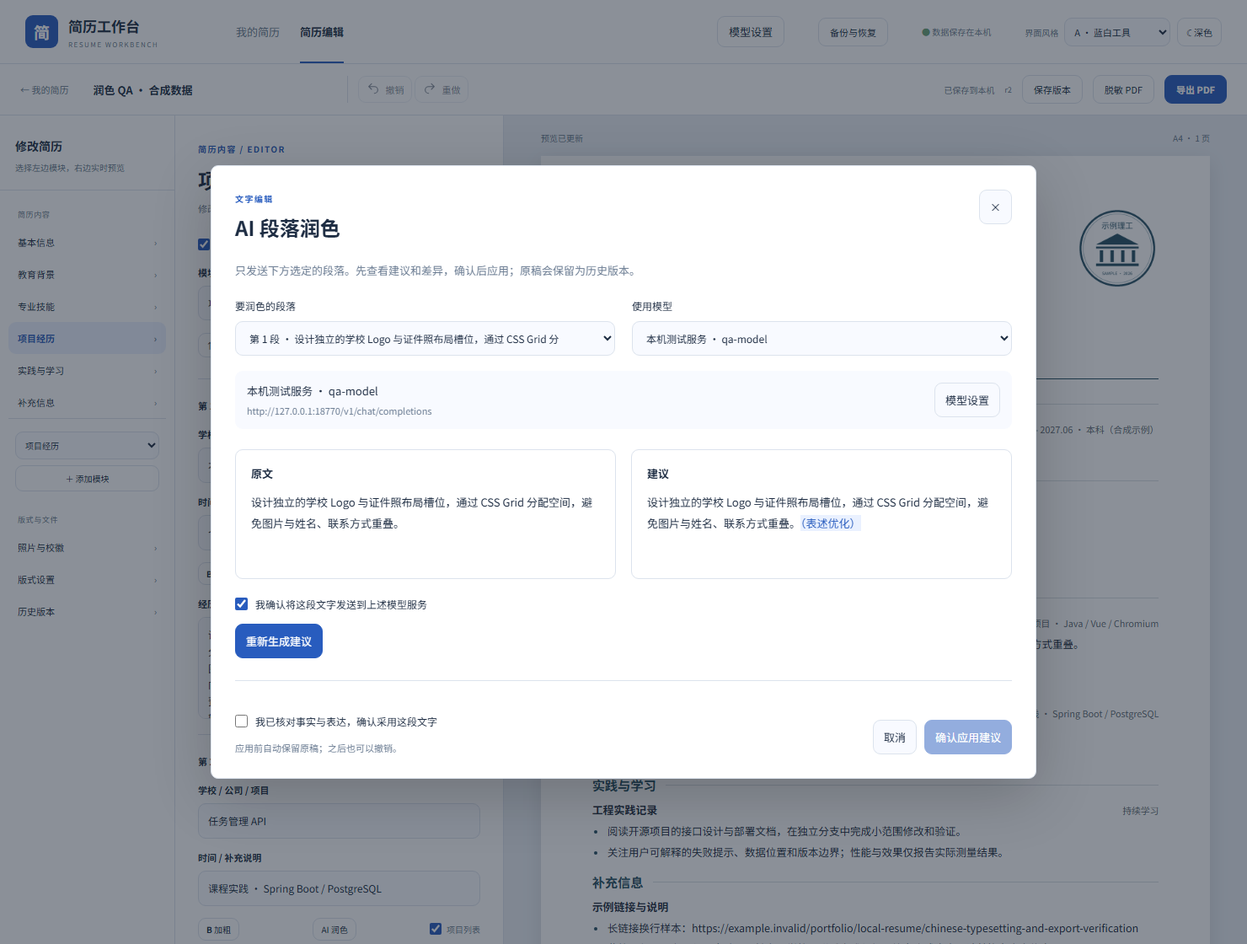
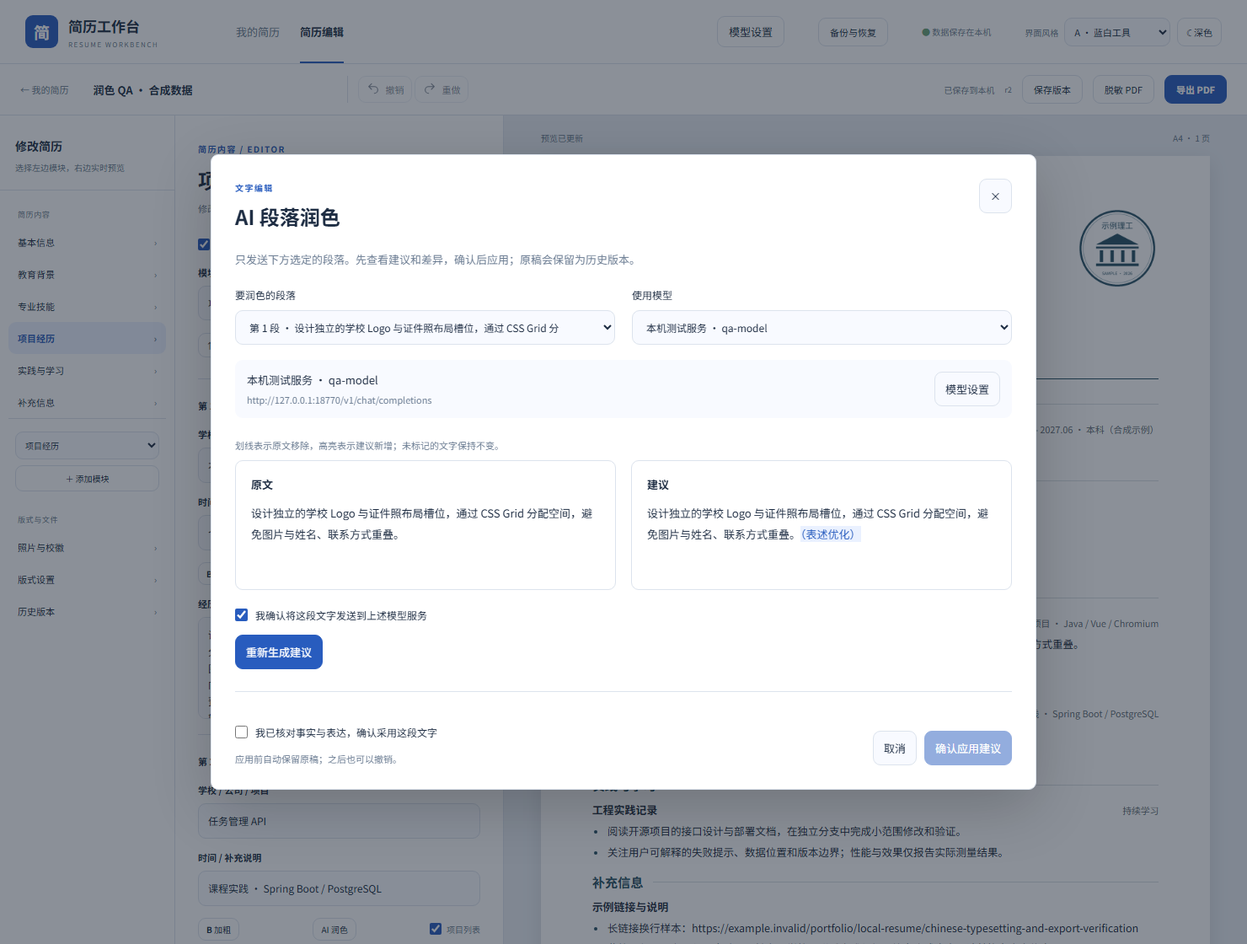
Highlight precise AI edits and new claims

diff --git a/frontend/src/models.css b/frontend/src/models.css
@@ -1,5 +1,6 @@
 .model-page{max-width:1230px;margin:auto;padding:48px 30px 60px}.model-page-heading{display:flex;align-items:center;justify-content:space-between;gap:20px;margin-bottom:28px}.model-page h1{font:700 32px var(--ui-heading);margin:12px 0}.model-page p{color:var(--ui-muted);line-height:1.8}.model-page-toolbar{display:flex;align-items:center;gap:18px;padding:18px 0;border-top:1px solid var(--ui-line);border-bottom:1px solid var(--ui-line);margin-bottom:24px}.model-page-toolbar label{display:flex;align-items:center;gap:9px;white-space:nowrap}.model-page-toolbar span{flex:1;color:var(--ui-muted);font-size:12px}.model-grid{display:grid;grid-template-columns:repeat(2,minmax(0,1fr));gap:22px}.model-card,.model-edit{background:var(--ui-surface);border:1px solid var(--ui-line);border-radius:var(--ui-radius);padding:24px}.model-card-heading,.model-edit-heading{display:flex;align-items:flex-start;justify-content:space-between;gap:16px}.model-card h2,.model-edit h2{font:700 18px var(--ui-heading);margin:0 0 5px}.model-card-heading p{margin:0 0 18px;font-size:12px}.model-default{color:var(--ui-accent);background:var(--ui-tint);padding:6px 9px;border-radius:var(--ui-radius);font-size:11px;white-space:nowrap}.model-card dl{background:var(--ui-soft);padding:5px 15px;margin:0;min-height:142px;border-radius:var(--ui-radius)}.model-card dl>div{display:flex;justify-content:space-between;gap:20px;padding:12px 0;border-bottom:1px solid var(--ui-line)}.model-card dl>div:last-child{border:0}.model-card dt{color:var(--ui-muted);white-space:nowrap}.model-card dd{margin:0;max-width:76%;overflow:hidden;text-overflow:ellipsis;white-space:nowrap;text-align:right}.model-card footer{display:flex;align-items:center;gap:8px;flex-wrap:wrap;padding-top:20px}.model-card footer button{padding:7px 9px;font-size:12px}.model-card footer .quiet-danger{margin-left:auto}.model-edit{margin-bottom:26px}.model-edit fieldset{border:0;padding:0;margin:18px 0 0}.model-fields{display:grid;grid-template-columns:repeat(2,minmax(0,1fr));gap:18px}.model-wide{grid-column:1/-1}.model-clear-key{display:flex;align-items:center;gap:9px;margin-top:16px}.model-key-note,.model-footer-note{font-size:11px}.model-error{color:#c84c45!important}.model-notice,.model-test-result{color:var(--ui-accent)!important}.model-empty{padding:44px 20px;text-align:center;border:1px dashed var(--ui-line);border-radius:var(--ui-radius)}.model-footer-note{margin-top:28px}.model-page .form-label{margin:0}
 @media(max-width:760px){.model-page{padding:26px 18px}.model-page-heading{align-items:flex-start}.model-page h1{font-size:27px}.model-grid,.model-fields{grid-template-columns:minmax(0,1fr)}.model-wide{grid-column:auto}.model-page-toolbar{flex-wrap:wrap;gap:13px}.model-page-toolbar span{order:3;flex-basis:100%}.model-page-toolbar>button{margin-left:auto}.model-card,.model-edit{padding:20px;min-width:0}.model-card-heading>div{min-width:0;overflow-wrap:anywhere}.model-card footer{gap:7px}.model-card dd{max-width:70%;min-width:0}}
 .rw-app .model-open.active{color:var(--ui-accent);background:var(--ui-tint)}.suggestion-overlay{position:fixed;inset:0;z-index:70;display:flex;align-items:center;justify-content:center;background:#17223180;padding:24px;color:var(--ui-ink);font:13px ResumeSans,Arial,sans-serif}.suggestion-dialog{width:min(980px,100%);max-height:calc(100vh - 48px);overflow:auto;padding:28px;background:var(--ui-surface);border:1px solid var(--ui-line);border-radius:var(--ui-radius);box-shadow:0 20px 70px #0003}.suggestion-dialog *{box-sizing:border-box}.suggestion-dialog button,.suggestion-dialog select{font:inherit;color:var(--ui-ink);background:var(--ui-soft);border:1px solid var(--ui-line);border-radius:var(--ui-radius);padding:10px 12px;cursor:pointer}.suggestion-dialog button:disabled{opacity:.5;cursor:not-allowed}.suggestion-dialog .rw-primary{color:var(--ui-accent-ink);background:var(--ui-accent);border-color:var(--ui-accent)}.suggestion-dialog select{width:100%;min-width:0;cursor:pointer}.suggestion-dialog header{display:flex;justify-content:space-between;align-items:flex-start;gap:20px}.suggestion-dialog h2{font:700 24px var(--ui-heading);margin:8px 0 0}.suggestion-intro{color:var(--ui-muted);line-height:1.8;margin:22px 0}.suggestion-options{display:grid;grid-template-columns:1fr 1fr;gap:20px}.suggestion-options .form-label{display:grid;gap:10px;font-size:12px}.suggestion-destination{display:grid;grid-template-columns:1fr auto;gap:5px 16px;margin:18px 0 24px;padding:14px;background:var(--ui-soft);border-radius:var(--ui-radius)}.suggestion-destination small{grid-column:1;color:var(--ui-muted);overflow-wrap:anywhere}.suggestion-destination button{grid-column:2;grid-row:1/3;align-self:center}.suggestion-comparison{display:grid;grid-template-columns:1fr 1fr;gap:18px}.suggestion-comparison article{border:1px solid var(--ui-line);border-radius:var(--ui-radius);padding:18px;min-height:154px}.suggestion-comparison h3{margin:0 0 13px;font-size:13px}.suggestion-text{line-height:1.9;white-space:pre-wrap;overflow-wrap:anywhere;margin:0}.suggestion-text del{background:#c85b4e24;text-decoration:line-through}.suggestion-text mark{background:var(--ui-tint);color:var(--ui-accent)}.suggestion-placeholder{color:var(--ui-muted);line-height:1.8}.suggestion-confirm{display:flex;align-items:flex-start;gap:9px;margin:20px 0 14px;line-height:1.6;font-size:12px}.suggestion-confirm input{width:15px;height:15px;flex:0 0 15px;margin:2px 0 0;accent-color:var(--ui-accent)}.suggestion-dialog footer{display:flex;align-items:flex-end;justify-content:space-between;gap:18px;margin-top:26px;padding-top:18px;border-top:1px solid var(--ui-line)}.suggestion-dialog footer p{color:var(--ui-muted);font-size:11px;margin:8px 0 0}.suggestion-actions{display:flex;gap:9px;flex-shrink:0}.suggestion-warning{color:var(--ui-accent);font-size:12px;line-height:1.8}.suggestion-error{color:#c84c45;line-height:1.8}.suggestion-dialog button:focus-visible,.suggestion-dialog select:focus-visible,.suggestion-dialog input:focus-visible{outline:2px solid var(--ui-accent);outline-offset:2px}
+.suggestion-diff-key{font-size:11px;color:var(--ui-muted);margin:0 0 10px}.suggestion-fact-risks{margin-top:16px;padding:10px 14px;border-left:3px solid #c98d3e;border-radius:var(--ui-radius);background:var(--ui-soft);color:var(--ui-ink);font-size:12px;line-height:1.7}.suggestion-fact-risks p{margin:0}.suggestion-fact-risks p+p{margin-top:6px}
 @media(max-width:720px){.suggestion-overlay{padding:12px}.suggestion-dialog{padding:20px;max-height:calc(100vh - 24px)}.suggestion-options,.suggestion-comparison{grid-template-columns:1fr}.suggestion-dialog footer{align-items:stretch;flex-direction:column}.suggestion-actions{justify-content:flex-end}.suggestion-destination{grid-template-columns:1fr}.suggestion-destination button{grid-column:1;grid-row:auto;justify-self:start}.model-open{font-size:11px!important;padding:7px 9px!important}}
 @media(max-width:590px){.rw-header-inner .rw-brand{flex:0 0 100%;min-height:38px}.rw-header-inner{gap:9px}.rw-header-inner .appearance-controls{margin-left:auto}.rw-header-inner .backup-open{font-size:11px;padding:7px 9px}}

diff --git a/frontend/src/TextSuggestion.vue b/frontend/src/TextSuggestion.vue
@@ -3,6 +3,7 @@ import {computed,nextTick,onMounted,onUnmounted,ref,watch} from 'vue';
 import {api,type Resume} from './api';
 import {modelSettings,type ModelSettings,type ParagraphTarget,type Suggestion} from './modelApi';
 import {textDifference} from './textDifference';
+import {claimWarnings} from './claimWarnings';
 const props=defineProps<{source:Resume;target:ParagraphTarget;returnFocus?:HTMLElement}>();
 const emit=defineEmits<{close:[];settings:[];applied:[Resume];applying:[boolean]}>();
 const state=ref<ModelSettings>(),profileId=ref(''),paragraph=ref(props.target.paragraph),consent=ref(false),verified=ref(false),working=ref(false),applying=ref(false),error=ref(''),suggestion=ref<Suggestion>();
@@ -12,6 +13,7 @@ const original=computed(()=>entry.value?.bullets[paragraph.value]||'');
 const profile=computed(()=>state.value?.profiles.find(p=>p.id===profileId.value));
 const destination=computed(()=>profile.value?profile.value.baseUrl+'/chat/completions':'');
 const difference=computed(()=>textDifference(suggestion.value?.original||original.value,suggestion.value?.replacement||original.value));
+const risk=computed(()=>claimWarnings(suggestion.value?.original||'',suggestion.value?.replacement||''));
 const canGenerate=computed(()=>state.value?.readable&&state.value.enabled&&profile.value?.hasApiKey&&original.value.trim()&&consent.value&&!working.value&&!applying.value);
 let disposed=false,generation=0,controller:AbortController|undefined,previousFocus:HTMLElement|undefined;
 function changed(){generation++;controller?.abort();working.value=false;suggestion.value=undefined;verified.value=false;consent.value=false;error.value='';}
@@ -42,9 +44,10 @@ onUnmounted(()=>{disposed=true;controller?.abort();window.removeEventListener('k
   <div class="suggestion-options"><label class="form-label">要润色的段落<select v-model.number="paragraph" :disabled="applying" aria-label="要润色的段落"><option v-for="(text,index) in entry?.bullets" :key="index" :value="index">第 {{index+1}} 段 · {{text.slice(0,35)||'空段落'}}</option></select></label><label class="form-label">使用模型<select v-model="profileId" :disabled="applying" aria-label="使用的润色模型"><option value="">选择已配置的模型</option><option v-for="item in state?.profiles" :key="item.id" :value="item.id">{{item.name}} · {{item.model}}</option></select></label></div>
   <div class="suggestion-destination"><span>{{profile?`${profile.name} · ${profile.model}`:'尚未选择模型'}}</span><small>{{destination}}</small><button :disabled="applying" @click="emit('settings')">模型设置</button></div>
   <p v-if="state&&!state.enabled" class="suggestion-warning">文字润色尚未启用，请在模型设置中开启。</p><p v-if="profile&&!profile.hasApiKey" class="suggestion-warning">此模型尚未配置 API Key。</p><p v-if="state&&!state.readable" class="suggestion-warning">模型设置无法读取，已暂停调用。</p>
-  <div class="suggestion-comparison"><article><h3>{{suggestion?'原文':'将发送的文字'}}</h3><p v-if="suggestion" class="suggestion-text">{{difference.prefix}}<del>{{difference.before}}</del>{{difference.suffix}}</p><p v-else class="suggestion-text" data-testid="ai-sent-text">{{original||'请先填写这一段内容。'}}</p></article><article><h3>建议</h3><p v-if="suggestion" class="suggestion-text" data-testid="ai-result-text">{{difference.prefix}}<mark>{{difference.after}}</mark>{{difference.suffix}}</p><p v-else class="suggestion-placeholder">{{working?'正在生成建议…':'点击生成后，在这里查看改写结果。'}}</p></article></div>
+  <p v-if="suggestion" class="suggestion-diff-key">划线表示原文移除，高亮表示建议新增；未标记的文字保持不变。</p>
+  <div class="suggestion-comparison"><article><h3>{{suggestion?'原文':'将发送的文字'}}</h3><p v-if="suggestion" class="suggestion-text" data-testid="ai-original-text"><template v-for="(part,index) in difference.before" :key="index"><del v-if="part.changed">{{part.text}}</del><span v-else>{{part.text}}</span></template></p><p v-else class="suggestion-text" data-testid="ai-sent-text">{{original||'请先填写这一段内容。'}}</p></article><article><h3>建议</h3><p v-if="suggestion" class="suggestion-text" data-testid="ai-result-text"><template v-for="(part,index) in difference.after" :key="index"><mark v-if="part.changed">{{part.text}}</mark><span v-else>{{part.text}}</span></template></p><p v-else class="suggestion-placeholder">{{working?'正在生成建议…':'点击生成后，在这里查看改写结果。'}}</p></article></div>
   <label class="suggestion-confirm"><input v-model="consent" type="checkbox" :disabled="applying||!state?.readable||!state.enabled||!profile?.hasApiKey" aria-label="确认发送选定段落">我确认将这段文字发送到上述模型服务</label><button class="rw-primary" :disabled="!canGenerate" @click="generate">{{working?'正在生成…':suggestion?'重新生成建议':'生成润色建议'}}</button>
-  <p v-if="suggestion?.addedNumbers" class="suggestion-warning">建议中出现了原文没有的数字，请逐项核对。模型建议不代表事实。</p><p v-if="error" class="suggestion-error" role="alert">{{error}}</p>
+  <div v-if="suggestion&&(suggestion.addedNumbers||risk.roles.length||risk.outcomes.length)" class="suggestion-fact-risks" role="note" aria-label="建议中需要核对的事实变化"><p v-if="risk.roles.length" data-testid="ai-role-risk">建议新增或加强了 {{risk.roles.map(term=>`“${term}”`).join('、')}} 等职责用语，请确认职责确实属于你。</p><p v-if="risk.outcomes.length" data-testid="ai-outcome-risk">建议新增了 {{risk.outcomes.map(term=>`“${term}”`).join('、')}} 等结果描述，请确认有事实依据。</p><p v-if="suggestion.addedNumbers">建议中出现原文没有的数字，请逐项核对。</p></div><p v-if="error" class="suggestion-error" role="alert">{{error}}</p>
   <footer><div><label v-if="suggestion" class="suggestion-confirm"><input v-model="verified" type="checkbox" :disabled="applying" aria-label="确认建议事实与表达">我已核对事实与表达，确认采用这段文字</label><p>应用前自动保留原稿；之后也可以撤销。</p></div><div class="suggestion-actions"><button :disabled="applying" @click="close">取消</button><button class="rw-primary" :disabled="!suggestion||!verified||suggestion.original===suggestion.replacement||applying" @click="apply">{{applying?'正在应用…':'确认应用建议'}}</button></div></footer>
  </section></div>
 </template>

diff --git a/frontend/tests/models.spec.ts b/frontend/tests/models.spec.ts
@@ -27,6 +27,36 @@ test('provider cards manage presets, keep credentials masked, switch default and
  page.once('dialog',dialog=>dialog.accept());await other.getByRole('button',{name:'删除',exact:true}).click();await expect(other).toHaveCount(0);await page.getByRole('button',{name:'我的简历',exact:true}).click();await expect(page.getByRole('heading',{name:/我的简历/})).toBeVisible();
 });
 
+test('review separates distant edits and flags new responsibility and outcome claims',async({page,request})=>{
+ await config(request);const source=await resume(request);
+ await page.goto('/?view=models');await page.getByLabel('界面风格').selectOption('b');await page.getByRole('switch',{name:'深色模式'}).click();
+ await page.route('**/api/ai/suggestions',async route=>{
+  const response=await route.fetch();const result=await response.json();
+  await route.fulfill({response,json:{...result,replacement:`【审核提示】${result.original} 主导联调，确保系统稳定。`}});
+ });
+ const dialog=await open(page,source.id);await dialog.getByLabel('确认发送选定段落').check();
+ await dialog.getByRole('button',{name:'生成润色建议'}).click();
+ await expect(dialog.getByTestId('ai-role-risk')).toContainText('主导');
+ await expect(dialog.getByTestId('ai-outcome-risk')).toContainText('确保');
+ await expect(dialog.getByTestId('ai-result-text').locator('mark')).toHaveCount(2);
+ const original=await dialog.getByTestId('ai-original-text').textContent();
+ const suggested=await dialog.getByTestId('ai-result-text').textContent();
+ expect(suggested).toBe(`【审核提示】${original} 主导联调，确保系统稳定。`);
+ await expect(dialog.getByRole('button',{name:'确认应用建议'})).toBeDisabled();
+ await fs.mkdir(path.join(root,'output'),{recursive:true});
+ await page.screenshot({path:path.join(root,'output/ai-review-risks-dark.png'),animations:'disabled'});
+ await page.setViewportSize({width:430,height:960});
+ await expect(dialog.getByTestId('ai-role-risk')).toBeVisible();
+ const bounds=await dialog.boundingBox();expect(bounds).not.toBeNull();
+ expect(bounds!.x).toBeGreaterThanOrEqual(0);
+ expect(bounds!.x+bounds!.width).toBeLessThanOrEqual(430);
+ expect(await dialog.evaluate(element=>element.scrollWidth<=element.clientWidth+1)).toBe(true);
+ await dialog.getByTestId('ai-outcome-risk').scrollIntoViewIfNeeded();
+ await page.screenshot({path:path.join(root,'output/ai-review-risks-mobile.png'),animations:'disabled'});
+ await dialog.getByRole('button',{name:'取消',exact:true}).click();
+ expect(await(await request.get('/api/resumes/'+source.id)).json()).toEqual(source);
+});
+
 test('only a confirmed selected paragraph is sent; apply is versioned and undoable without leaking contacts',async({page,request})=>{
  await config(request);const source=await resume(request);const initial=(await(await request.get(`/api/resumes/${source.id}/versions`)).json()).length;
  const dialog=await open(page,source.id);await dialog.getByLabel('要润色的段落').selectOption('0');await expect(dialog.getByRole('button',{name:'生成润色建议'})).toBeDisabled();const original=await dialog.getByTestId('ai-sent-text').textContent();expect(original).not.toContain('PRIVATE-');await dialog.getByLabel('确认发送选定段落').check();

diff --git a/frontend/unit/textDifference.test.ts b/frontend/unit/textDifference.test.ts
@@ -1,9 +1,42 @@
 import {test} from 'node:test';
 import assert from 'node:assert/strict';
 import {textDifference} from '../src/textDifference.ts';
-test('changed span preserves identical prefixes, suffixes and unicode characters',()=>{
- assert.deepEqual(textDifference('实现事务处理','完善事务处理'),{prefix:'',before:'实现',after:'完善',suffix:'事务处理'});
- assert.deepEqual(textDifference('🦖处理接口','🦖优化接口'),{prefix:'🦖',before:'处理',after:'优化',suffix:'接口'});
- assert.deepEqual(textDifference('保持原文','保持原文'),{prefix:'保持原文',before:'',after:'',suffix:''});
- assert.deepEqual(textDifference('A','AB'),{prefix:'A',before:'',after:'B',suffix:''});
+import {claimWarnings} from '../src/claimWarnings.ts';
+
+const full=(parts:{text:string}[])=>parts.map(part=>part.text).join('');
+const edits=(parts:{text:string;changed:boolean}[])=>parts.filter(part=>part.changed).map(part=>part.text);
+
+test('separate Chinese edits retain the unchanged words between them',()=>{
+ const before='参与接口设计，并参与联调。';
+ const after='主导接口设计，并负责联调。';
+ const difference=textDifference(before,after);
+ assert.equal(full(difference.before),before);
+ assert.equal(full(difference.after),after);
+ assert.deepEqual(edits(difference.before),['参与','参与']);
+ assert.deepEqual(edits(difference.after),['主导','负责']);
+ assert(difference.before.some(part=>!part.changed&&part.text.includes('接口设计，并')));
+});
+
+test('word, punctuation and emoji boundaries preserve exact source text',()=>{
+ for(const [before,after] of [
+  ['🦖处理 Spring Boot 接口。','🦖优化 Spring Boot 接口。'],
+  ['保持原文','保持原文'],
+  ['A','AB'],
+  ['记录问题，修复接口。','记录问题；修复接口。'],
+  ['','新增内容']
+ ]){
+  const difference=textDifference(before,after);
+  assert.equal(full(difference.before),before);
+  assert.equal(full(difference.after),after);
+ }
+ const emoji=textDifference('🦖处理 Spring Boot 接口。','🦖优化 Spring Boot 接口。');
+ assert.deepEqual(edits(emoji.before),['处理']);
+ assert.deepEqual(edits(emoji.after),['优化']);
+});
+
+test('responsibility and outcome hints react to new claims, including repeated roles',()=>{
+ assert.deepEqual(claimWarnings('参与联调。','主导联调并确保稳定。'),{roles:['主导'],outcomes:['确保']});
+ assert.deepEqual(claimWarnings('负责测试，参与联调。','负责测试，负责联调。'),{roles:['负责'],outcomes:[]});
+ assert.deepEqual(claimWarnings('负责测试并确保稳定。','负责测试并确保稳定。'),{roles:[],outcomes:[]});
+ assert.deepEqual(claimWarnings('参与联调。','参与联调并记录问题。'),{roles:[],outcomes:[]});
 });

diff --git a/frontend/src/textDifference.ts b/frontend/src/textDifference.ts
@@ -1,7 +1,35 @@
-/** Highlight the changed span without splitting emoji or interpreting HTML. */
-export function textDifference(before:string,after:string){
- const a=Array.from(before),b=Array.from(after);let prefix=0,suffix=0;
- while(prefix<a.length&&prefix<b.length&&a[prefix]===b[prefix])prefix++;
- while(suffix<a.length-prefix&&suffix<b.length-prefix&&a[a.length-1-suffix]===b[b.length-1-suffix])suffix++;
- return{prefix:a.slice(0,prefix).join(''),before:a.slice(prefix,a.length-suffix).join(''),after:b.slice(prefix,b.length-suffix).join(''),suffix:a.slice(a.length-suffix).join('')};
+export type DifferencePart={text:string;changed:boolean};
+
+function words(value:string):string[]{
+ if(typeof Intl.Segmenter!=='function')return Array.from(value);
+ return Array.from(new Intl.Segmenter('zh',{granularity:'word'}).segment(value),part=>part.segment);
+}
+
+function append(parts:DifferencePart[],text:string,changed:boolean){
+ if(!text)return;
+ const last=parts.at(-1);
+ if(last?.changed===changed)last.text+=text;
+ else parts.push({text,changed});
+}
+
+/** Compare whole words where possible so separate edits stay visible in both columns. */
+export function textDifference(before:string,after:string):{before:DifferencePart[];after:DifferencePart[]}{
+ if(before===after)return{before:[{text:before,changed:false}],after:[{text:after,changed:false}]};
+ const a=words(before),b=words(after),width=b.length+1;
+ const lengths=new Uint16Array((a.length+1)*width);
+ for(let i=a.length-1;i>=0;i--)for(let j=b.length-1;j>=0;j--){
+  const index=i*width+j;
+  lengths[index]=a[i]===b[j]?lengths[(i+1)*width+j+1]+1:
+   Math.max(lengths[(i+1)*width+j],lengths[i*width+j+1]);
+ }
+ const old:DifferencePart[]=[],proposal:DifferencePart[]=[];
+ let i=0,j=0;
+ while(i<a.length||j<b.length){
+  if(i<a.length&&j<b.length&&a[i]===b[j]){
+   append(old,a[i],false);append(proposal,b[j],false);i++;j++;
+  }else if(i<a.length&&(j===b.length||lengths[(i+1)*width+j]>=lengths[i*width+j+1])){
+   append(old,a[i++],true);
+  }else append(proposal,b[j++],true);
+ }
+ return{before:old,after:proposal};
 }

diff --git a/frontend/src/claimWarnings.ts b/frontend/src/claimWarnings.ts
@@ -1,0 +1,9 @@
+const roleClaims=['负责','主导','牵头','统筹','独立完成'] as const;
+const outcomeClaims=['确保','提升','降低','缩短','增长'] as const;
+const count=(text:string,phrase:string)=>text.split(phrase).length-1;
+
+/** Surface newly asserted responsibility or impact; it is a review hint, not fact checking. */
+export function claimWarnings(before:string,after:string){
+ const introduced=(phrases:readonly string[])=>phrases.filter(phrase=>count(after,phrase)>count(before,phrase));
+ return{roles:introduced(roleClaims),outcomes:introduced(outcomeClaims)};
+}

diff --git a/docs/model-settings.md b/docs/model-settings.md
@@ -9,6 +9,8 @@
 5. 核对显示的模型、接收地址与文字，勾选确认发送，再生成建议。只发送这一段，姓名、联系方式、照片、校徽和整份简历不会被自动附带。
 6. 查看原文与建议差异，核对事实和数字，确认后应用。应用前会自动保留历史版本，也可直接撤销。取消、模型失败或过期建议都不会修改原文。
 
+对比视图会分别标出各处移除和新增的词句。建议出现新的「负责」「主导」或「确保」「提升」等职责、结果用语时会提醒核对；提醒只依据文字变化，不能代替事实判断。
+
 文字润色默认关闭，简历编辑、保存、图片和 PDF 继续独立运行。模型生成不会自行保存；生成期间原文或模型设置在其他页面改变时，本次结果会被拒绝，应用前也会再次核对原文修订。明显过长的扩写或过度删减会被拒绝并保留原文，长段落可拆开处理；其他建议仍可能改变事实，新增数字会另行提示，用户需核对职责和结果。
 
 ![模型配置管理，使用合成测试配置](model-settings.png)
@@ -16,6 +18,8 @@
 ![深色模式下的模型设置](model-settings-dark.png)
 
 ![查看原文与润色建议，使用合成测试文字](ai-paragraph-review.png)
+
+![深色模式下的职责与结果用语提醒，使用合成测试文字](ai-review-risks-dark.png)
 
 模型配置属于当前本机实例，保存在应用数据卷的 `model-settings` 目录。API Key 使用 AES-GCM 加密，解密密钥为该目录下的 `master.key`；接口和列表不回显明文，浏览器不持久保存密钥。工作区 ZIP 不包含模型配置或密钥，在另一台设备恢复简历后需重新配置模型。迁移整个应用数据卷时，请妥善保管包含密钥的目录。
 

diff --git a/docs/releasing.md b/docs/releasing.md
@@ -1,6 +1,6 @@
 # 验证与发布流程
 
-GitHub Actions 在 `main`、PR 和手动运行时检查 10 项前端逻辑测试与构建、76 项 Java 测试、可执行 JAR / 许可证清单、Docker 镜像、30 项浏览器测试、离线使用、全新实例备份恢复、中文 PDF 和容器重建持久化。自动备份检查覆盖调度、去重、历史恢复、跨实例策略边界和重建保留；脱敏检查覆盖四模板、图片字节移除、原稿保留、过期预览和下载重试。测试只在合成数据的独立 PostgreSQL schema / Compose 项目执行。
+GitHub Actions 在 `main`、PR 和手动运行时检查 12 项前端逻辑测试与构建、78 项 Java 测试、可执行 JAR / 许可证清单、Docker 镜像、31 项浏览器测试、离线使用、全新实例备份恢复、中文 PDF 和容器重建持久化。自动备份检查覆盖调度、去重、历史恢复、跨实例策略边界和重建保留；脱敏检查覆盖四模板、图片字节移除、原稿保留、过期预览和下载重试。测试只在合成数据的独立 PostgreSQL schema / Compose 项目执行。
 
 日常迭代通过功能分支、PR、CI 和合并同步 GitHub，变更集中记录在 CHANGELOG 的 Unreleased 区域。小功能完成后不自动创建版本标签或 Release，也不把 Compose 默认镜像改成尚未发布的版本。累积到较完整的里程碑，再统一确定版本、更新部署配置和发布镜像。
 

diff --git a/CHANGELOG.md b/CHANGELOG.md
@@ -2,6 +2,7 @@
 
 ## Unreleased
 
+- 润色建议按词句分别标出多处修改；新增或加强的职责、结果用语会提示人工核对，适配两种界面风格与深色模式。
 - 收紧 AI 段落润色的事实约束；明显过长的扩写或过度删减直接拒绝，保留原文并提示拆段或手动编辑。
 - 模型设置页面：DashScope、DeepSeek、GLM 和其他兼容服务，支持添加、编辑、测试、默认切换和删除；密钥仅保存在本机服务端。
 - 可选段落润色：先确认选定文字与接收服务，查看差异，核对后应用；原稿自动快照、可撤销，过期或冲突建议不覆盖当前内容。
